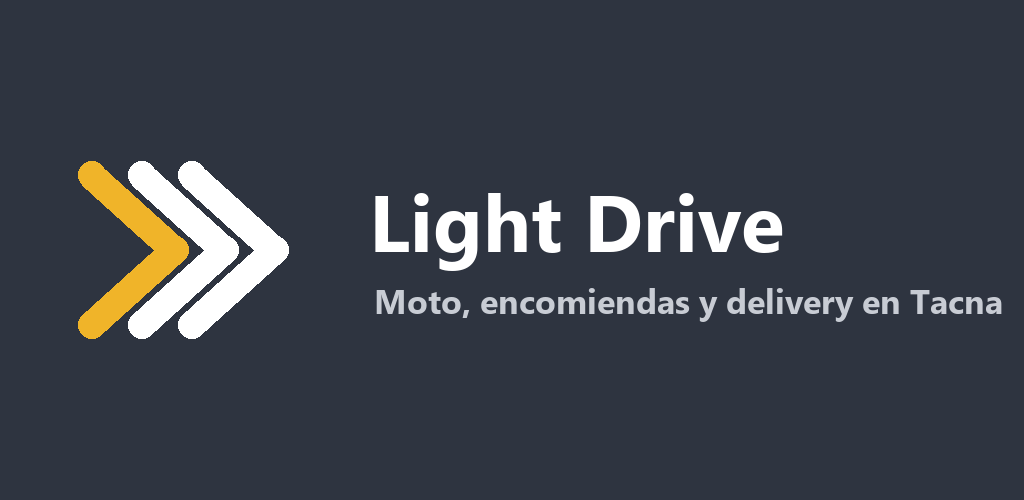
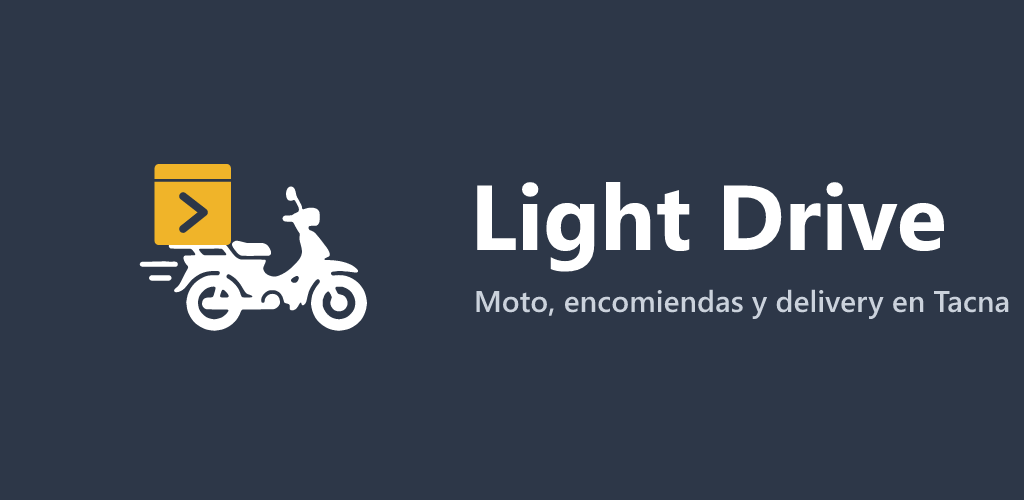
Ícono nuevo de Light Drive: moto de reparto con la caja amarilla y el chevron
Vectorial (caja geométrica + moto trazada), monocromático para íconos
temáticos, ícono propio de notificaciones (solo la caja: la moto no se lee a
24dp), y gráficos de Play (512 y destacado 1024x500) actualizados.

Changed region(s): [[0.0625, 0.3, 1.0, 0.69]]

diff --git a/composeApp/src/androidMain/kotlin/pe/leadai/rider/push/LeadAIFirebaseService.kt b/composeApp/src/androidMain/kotlin/pe/leadai/rider/push/LeadAIFirebaseService.kt
@@ -124,7 +124,7 @@ class LeadAIFirebaseService : FirebaseMessagingService(), KoinComponent {
             // Va la variante MONOCROMA y no el launcher a color: Android
             // tiñe el ícono de notificación con un color plano y descarta
             // el resto, asi que un ícono a color sale como un cuadrado gris.
-            .setSmallIcon(R.drawable.ic_launcher_monochrome)
+            .setSmallIcon(R.drawable.ic_notificacion)
             .setContentTitle(titulo)
             .setContentText(cuerpo)
             .setAutoCancel(true)

diff --git a/composeApp/src/androidMain/kotlin/pe/leadai/rider/ui/carreras/ServicioCarreraActiva.kt b/composeApp/src/androidMain/kotlin/pe/leadai/rider/ui/carreras/ServicioCarreraActiva.kt
@@ -173,7 +173,7 @@ class ServicioCarreraActiva : Service(), KoinComponent {
             )
             // La marca, no el pin genérico de Android: esta notificación vive
             // fija en la barra mientras dura la carrera.
-            .setSmallIcon(R.drawable.ic_launcher_monochrome)
+            .setSmallIcon(R.drawable.ic_notificacion)
             .setOngoing(true)
             .setPriority(NotificationCompat.PRIORITY_LOW)
             .setContentIntent(intentAlAbrir())
